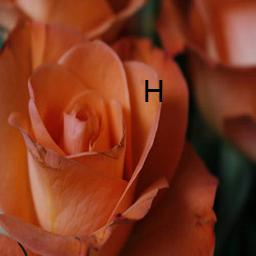
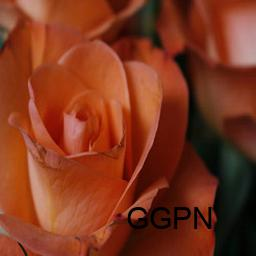
nippling are good for helth

Changed region(s): [[0.5, 0.7812, 0.8438, 0.9062], [0.5625, 0.3125, 0.6562, 0.4062]]

diff --git a/inpainting.py b/inpainting.py
@@ -44,24 +44,76 @@ def drawText(filepath, fontsize, text,target_size,color):
     x1 = x + 0.5*size[0] + 16 
     y0 = y + 0.5*fontsize - 16
     #draw input for model 2
-    image3 = Image.open(filepath).resize(target_size)
+    return image,(int(x0),int(y0),int(x1),int(y1))
 
-    draw = ImageDraw.Draw(image3)
-    draw.rectangle(xy = [(x0,y0),(x1,y1)], fill = "#FFFFFF",outline = "white")
-    return image,(int(x0),int(y0),int(x1),int(y1)),image3
-
-
+def smooth(rgb_with_text, gray_detected_text):
+    detectedPixels = []
+    for r in range(256):
+        for c in range(256):
+            if gray_detected_text[r, c] > 0.90:
+                detectedPixels.append([r, c])
+                print([r, c])
+    dP = np.array(detectedPixels)
+    for loc in detectedPixels:
+        r, c = loc[0], loc[1]
+        average = [0, 0, 0]
+        weight = 0
+        if r + 1 < 256 and c + 1 < 256 and [r + 1, c + 1]:
+            average[0] =+ rgb_with_text[r + 1, c + 1, 0]
+            average[1] =+ rgb_with_text[r + 1, c + 1, 1]
+            average[2] =+ rgb_with_text[r + 1, c + 1, 2]
+            weight += 1
+        if r + 1 < 256 and [r + 1, c]:
+            average[0] =+ rgb_with_text[r + 1, c, 0]
+            average[1] =+ rgb_with_text[r + 1, c, 1]
+            average[2] =+ rgb_with_text[r + 1, c, 2]
+            weight += 1
+        if r + 1 < 256 and c - 1 >= 0 and [r + 1, c - 1]:
+            average[0] =+ rgb_with_text[r + 1, c - 1, 0]
+            average[1] =+ rgb_with_text[r + 1, c - 1, 1]
+            average[2] =+ rgb_with_text[r + 1, c - 1, 2]
+            weight += 1
+        if c + 1 < 256 and [r, c + 1]:
+            average[0] =+ rgb_with_text[r, c + 1, 0]
+            average[1] =+ rgb_with_text[r, c + 1, 1]
+            average[2] =+ rgb_with_text[r, c + 1, 2]
+            weight += 1
+        if c - 1 >= 0 and [r, c - 1]:
+            average[0] =+ rgb_with_text[r, c - 1, 0]
+            average[1] =+ rgb_with_text[r, c - 1, 1]
+            average[2] =+ rgb_with_text[r, c - 1, 2]
+            weight += 1
+        if r - 1 >= 0 and c - 1 >= 0 and [r - 1, c - 1]:
+            average[0] =+ rgb_with_text[r - 1, c - 1, 0]
+            average[1] =+ rgb_with_text[r - 1, c - 1, 1]
+            average[2] =+ rgb_with_text[r - 1, c - 1, 2]
+            weight += 1
+        if r - 1 >= 0 and [r - 1, c]:
+            average[0] =+ rgb_with_text[r - 1, c, 0]
+            average[1] =+ rgb_with_text[r - 1, c, 1]
+            average[2] =+ rgb_with_text[r - 1, c, 2]
+            weight += 1
+        if r - 1 >= 0 and c + 1 < 256 and [r - 1, c + 1]:
+            average[0] =+ rgb_with_text[r - 1, c + 1, 0]
+            average[1] =+ rgb_with_text[r - 1, c + 1, 1]
+            average[2] =+ rgb_with_text[r - 1, c + 1, 2]
+            weight += 1
+        if weight != 0:
+            average[0] /= weight
+            average[1] /= weight
+            average[2] /= weight
+            rgb_with_text[r, c] = average
+    return rgb_with_text
 #initialization variables
 target_size = (256,256)
 
 textImages = []
 noTextImages = []
-textImagesRectangle = []
 expOutM1 = []
 
 testTextImages = []
 
-size = 300
+size = 100
 fontsize = 30
 
 validation_message = "H"
@@ -69,9 +121,9 @@ validation_message = "H"
 i = 0
 for filename in os.listdir('flower/flower_photos'):
     #message = ''.join(choices(ascii_uppercase, k = 1))  #randomize length of message and randomize message 
-    message = "H"
-    c = 'rgb(' + str(randint(0,255)) + ',' + str(randint(0,255)) + ',' + str(randint(0,255)) + ')' #black
-    images = drawText('flower/flower_photos/' + filename,fontsize,message,target_size,c)
+    validation_message = ''.join(choices(ascii_uppercase, k = 4))
+    c = 'rgb(' + str(randint(0,255)) + ',' + str(randint(0,255)) + ',' + str(randint(0,255)) + ')'
+    images = drawText('flower/flower_photos/' + filename,fontsize,validation_message,target_size,c)
     textImages.append(np.array(images[0],dtype = float))
     temp = np.zeros(shape = (256,256,3), dtype=float)
     x0 = images[1][0]
@@ -80,77 +132,51 @@ for filename in os.listdir('flower/flower_photos'):
     y1 = images[1][3]    
     temp[y0:y1,x0:x1,:] = 1.0
     expOutM1.append(temp)
-    textImagesRectangle.append(np.array(images[2],dtype = float))
     noTextImages.append(np.array(Image.open('flower/flower_photos/' + filename).resize(target_size),dtype = float))
     i += 1
     if(i == size):
         break
 
+b = 'rgb(0,0,0)'
 i = 0
 for filename in os.listdir('testingImages'):
-
-    images = drawText('testingImages/' + filename,fontsize,validation_message,target_size,'rgb(0,0,0)')
+    validation_message = ''.join(choices(ascii_uppercase, k = 4))
+    c = 'rgb(' + str(randint(0,255)) + ',' + str(randint(0,255)) + ',' + str(randint(0,255)) + ')'
+    images = drawText('testingImages/' + filename, fontsize, validation_message, target_size, b)
     images[0].save('testingImagesWithText/' + filename)
-    testTextImages.append(np.array(images[0],dtype = float))
+    testTextImages.append(np.array(images[0], dtype = float))
     i += 1
     if(i == 15):
         break
 
 textImages = np.array(textImages)
-textImagesRectangle = np.array(textImagesRectangle)
 noTextImages = np.array(noTextImages)
 expOutM1 = np.array(expOutM1)
-
 testTextImages = np.array(testTextImages)
 
 textImages[:,:,:,:] /= 255
 noTextImages[:,:,:,:] /= 255
-textImagesRectangle[:,:,:,:] /= 255
-
-
-plt.imshow(textImages[0])
-plt.show()
-plt.imshow(expOutM1[0])
-plt.show()
-plt.imshow(textImagesRectangle[0])
-plt.show()
-
 testTextImages[:,:,:,:] /= 255
-#need to find smallest rectange that contains text, then fill that box with white
 
-'''
-Flow:
-input: RGB image with text
-output: white image with black text in correct location (ie, is there text on this image? where?)
+# plt.imshow(textImages[0])
+# plt.show()
+# plt.imshow(expOutM1[0])
+# plt.show()
 
-output will have shape (size,256,256,3). need to find the spot of text on the image:
-    1) convert back to Image
-    2) scan through pixel coordinates (x,y) to find nonwhite pixel, record corner
-    3) 
-
-m2.input: (RGB image with text) - output = RGB image with white box covering text
-m2.output: rectangle of pixles that corresponds to the white box
-
-Final output:
-m2.input + m2.output
-
-Training: 
-model 1: have all info
-model 2: RGB image with white box around text. 
-'''
-
-
-m = modelbuilder()
-es = EarlyStopping(monitor='val_loss', mode='min', verbose=1, patience=5)
-mc = ModelCheckpoint('best_model.h5', monitor='val_accuracy', mode='max', verbose=1, save_best_only=True)
-m.fit(x=textImages[:size][:][:][:],y=expOutM1[:size][:][:][:],batch_size=25,epochs=50,validation_split=0.2,use_multiprocessing=True,callbacks=[es, mc])
+#m = modelbuilder()
+#mc = ModelCheckpoint('best_model.h5', monitor='val_loss', mode='min', verbose=1, save_best_only=True)
+#m.fit(x=textImages[:size][:][:][:],y=expOutM1[:size][:][:][:],batch_size=50,epochs=150,validation_split=0.2,use_multiprocessing=True,callbacks = mc)
 saved_model = load_model('best_model.h5')
 results = saved_model.predict(testTextImages[:15][:][:][:])
 
 i = 0
 for images in results: 
-    print(images)
-    plt.imshow(color.gray2rgb(images[:,:,0]))
-    plt.savefig('results/' + str(i) + ".png")
+    gray = color.gray2rgb(images[:,:,0])
+    plt.imshow(gray)
+    plt.title("Max: " + str(np.max(gray)) + " Min: " + str(np.min(gray[:,:,0])))
+    #plt.savefig('results/textDetect' + str(i) + ".png")
+    plt.show()
+    smoothed = smooth(testTextImages[i], gray[:,:,0] / np.max(gray))
+    plt.imshow(smoothed)
     plt.show()
     i +=1
